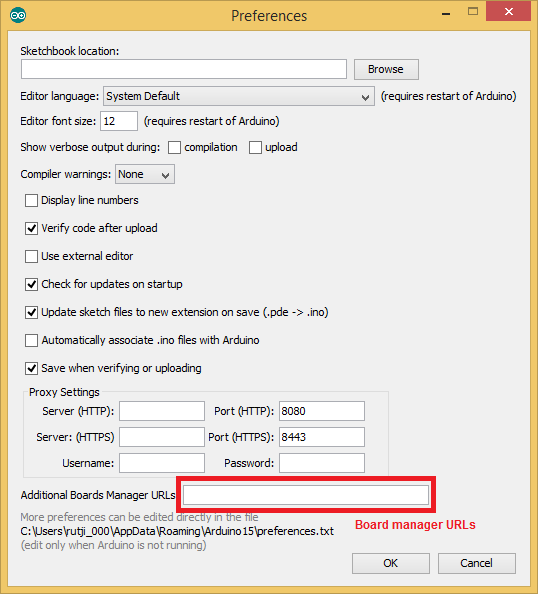
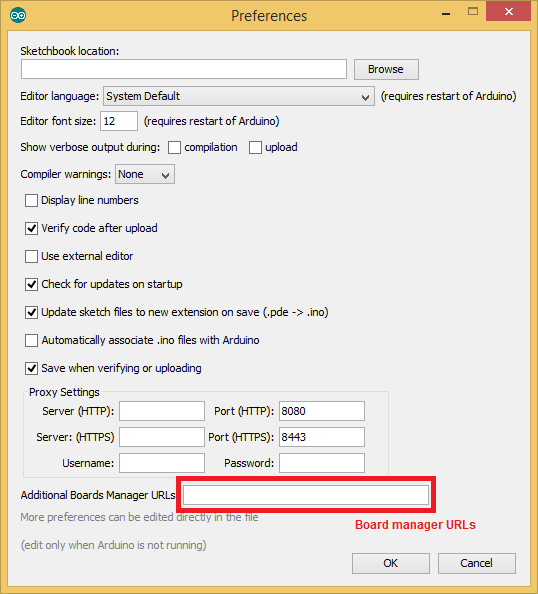
Add README, edit tutorial image.

Changed region(s): [[0.0297, 0.8788, 0.6245, 0.9091]]

diff --git a/README.md b/README.md
@@ -1,0 +1,23 @@
+# DW.CLOUD firmware support.
+This repository is official DW.CLOUD firmware supported by Deaware System. We will update new feature and bug fixed. If there are any bug, please create new issue to report us.
+
+## How to install DW.CLOUD firmware to Arduino IDE (version >= 1.6.4)
+
+#### 1) Add Board Manager URLs
+* In **Arduino IDE (version >= 1.6.4)** goto **File > Preference**
+* Insert **"Addition Board Manager URLs"** with the link following below.
+
+```
+http://github.com/deaware/dwcloud_firmware_support/raw/master/package_deaware_index.json
+```
+
+![](http://github.com/deaware/dwcloud_firmware_support/raw/master/tutorial_images/insert_board_man_url.png)
+
+* Open **"Boards Manager"** by goto **Tools > Board > Boards Manager...**
+![](http://github.com/deaware/dwcloud_firmware_support/raw/master/tutorial_images/select_boards_manager.png)
+
+* Select **DW.CLOUD** and press **"Install"**
+![](http://github.com/deaware/dwcloud_firmware_support/raw/master/tutorial_images/instsall_dwcloud.png)
+
+* Check the DW.CLOUD is ready to used by goto **Tools > Board** and you will see **"DW.CLOUD"** like a picture following below.
+![](http://github.com/deaware/dwcloud_firmware_support/raw/master/tutorial_images/dwcloud_shown.png)
